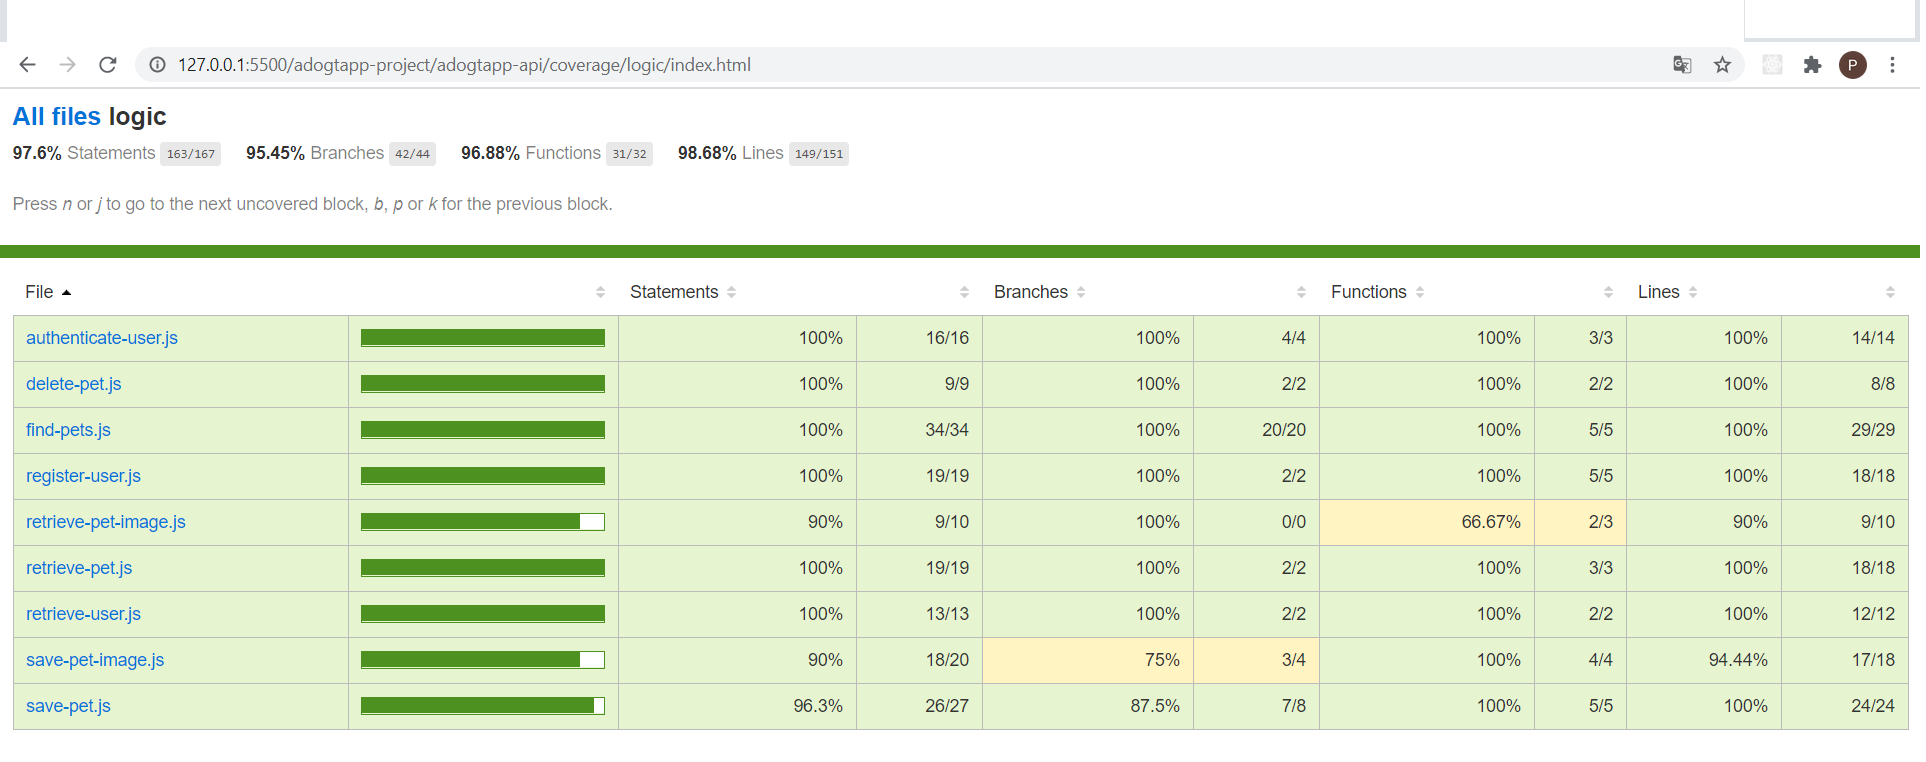
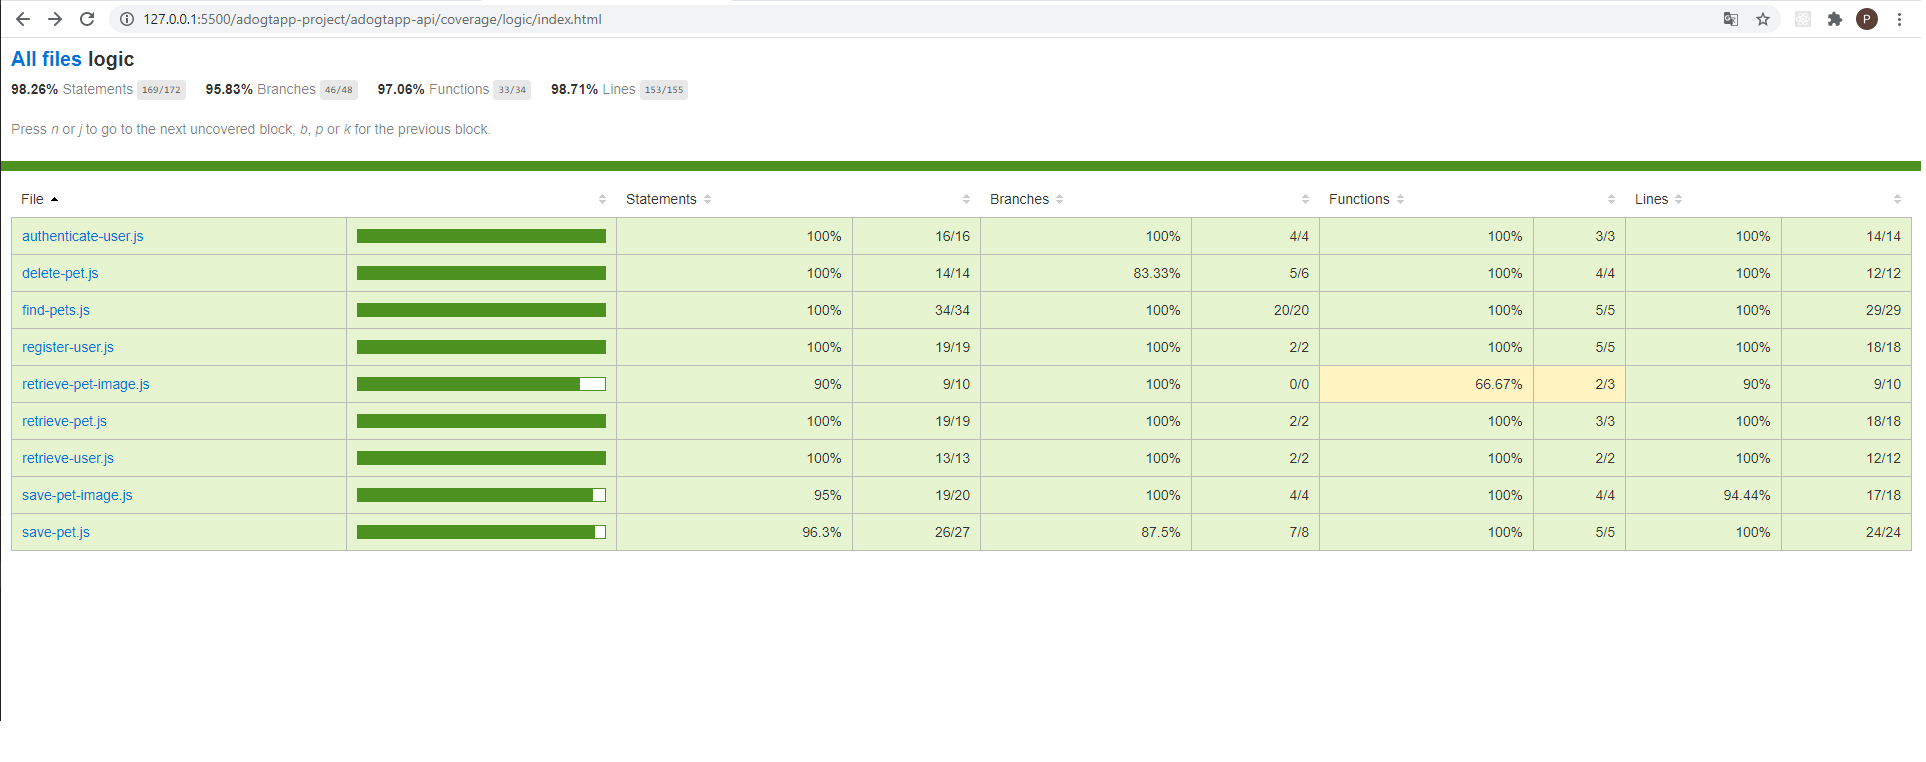
update some test

diff --git a/staff/pilar-latorre/adogtapp-project/adogtapp-api/logic/save-pet-image.spec.js b/staff/pilar-latorre/adogtapp-project/adogtapp-api/logic/save-pet-image.spec.js
@@ -85,6 +85,41 @@ describe('savePetImage()', () => {
 
     }) 
 
+    describe('on a non existing petId', () => {
+        let petImage, petId, shelter
+
+        beforeEach(async() => {
+
+            userName = `${randomStringWithPrefix('name')} ${randomStringWithPrefix('surname')}`
+            email = randomWithPrefixAndSuffix('email', '@mail.com')
+            password = randomStringWithPrefix('password')
+            address = randomStringWithPrefix('address')
+            city = randomStringWithPrefix('city')
+            phone = randomStringWithPrefix('phone')
+            description = randomStringWithPrefix('description')
+
+            petId = randomId()
+            petImage = fs.createReadStream(path.join(__dirname,'../data/pets/default.jpg'))
+
+            const user = { userName, email, password, address, city, phone, description }
+
+            const newUser = await User.create(user)
+            shelter = '' + newUser._id
+
+        })
+
+        it('shoud fail when petId and pet does not exists', () => {
+            return savePetImage(shelter, petId, petImage)
+            .catch(error => {
+                expect(error).to.be.instanceOf(Error)
+
+                expect(error.message).to.equal(`pet with id ${petId} not found`)
+            })
+            
+        })
+
+    }) 
+
     describe('when any parameter is wrong', () => {
         describe('when id is wrong', () => {
             

diff --git a/staff/pilar-latorre/adogtapp-project/adogtapp-api/logic/delete-pet.spec.js b/staff/pilar-latorre/adogtapp-project/adogtapp-api/logic/delete-pet.spec.js
@@ -76,6 +76,39 @@ describe('deletePet()', () => {
 
     }) 
 
+    describe('on a non existing petId', () => {
+        let petId, shelter, userName, email, password, address, city, phone, description
+
+        beforeEach(async() => {
+            userName = `${randomStringWithPrefix('name')} ${randomStringWithPrefix('surname')}`
+            email = randomWithPrefixAndSuffix('email', '@mail.com')
+            password = randomStringWithPrefix('password')
+            address = randomStringWithPrefix('address')
+            city = randomStringWithPrefix('city')
+            phone = randomStringWithPrefix('phone')
+            description = randomStringWithPrefix('description')
+
+            petId = randomId()
+
+            const user = { userName, email, password, address, city, phone, description }
+
+            const newUser = await User.create(user)
+            shelter = '' + newUser._id
+
+        })
+
+        it('shoud fail when petId does not exists', () => 
+            deletePet(shelter, petId)
+                .catch(error => {
+                    expect(error).to.be.instanceOf(Error)
+
+                    expect(error.message).to.equal(`pet with id ${petId} not found`)
+                })
+            
+        )
+
+    }) 
+
     
 
     describe('when any parameter is wrong', () => {

diff --git a/staff/pilar-latorre/adogtapp-project/adogtapp-api/logic/save-pet.spec.js b/staff/pilar-latorre/adogtapp-project/adogtapp-api/logic/save-pet.spec.js
@@ -111,12 +111,11 @@ describe('savePet()', () => {
             color = randomStringWithPrefix('color')
             description = randomStringWithPrefix('description')
             shelter = randomId()
-        
             
         })
 
         it('shoud fail when user does not exists', () => {
-            return savePet(shelter, undefined, shelter, name, breed, species, color, description )
+            return savePet(shelter, undefined, name, breed, species, color, description )
             .catch(error => {
                 expect(error).to.be.instanceOf(Error)
 

diff --git a/staff/pilar-latorre/adogtapp-project/adogtapp-api/logic/retrieve-pet-image.spec.js b/staff/pilar-latorre/adogtapp-project/adogtapp-api/logic/retrieve-pet-image.spec.js
@@ -47,7 +47,7 @@ describe('retrievePetImage()', () => {
             petId = '' + newPet._id
             
         })
-        it.only('shoud succed on a existing pet', () => {
+        it('shoud succed on a existing pet', () => {
             return retrievePetImage(petId)
             .then(file => {
                 expect(file).to.be.instanceOf(Object)
